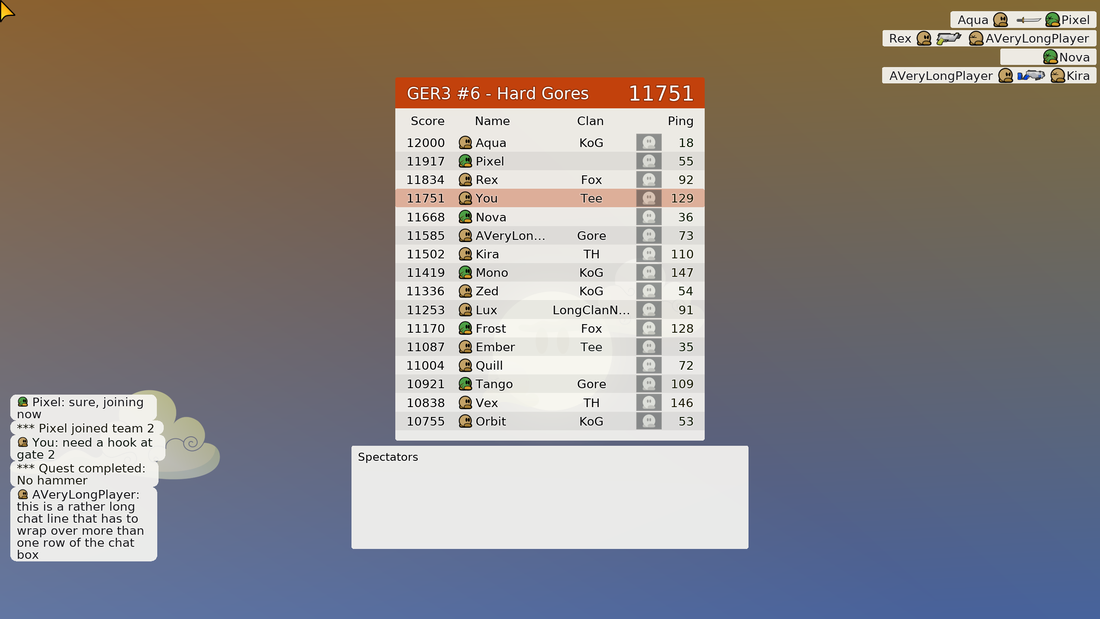
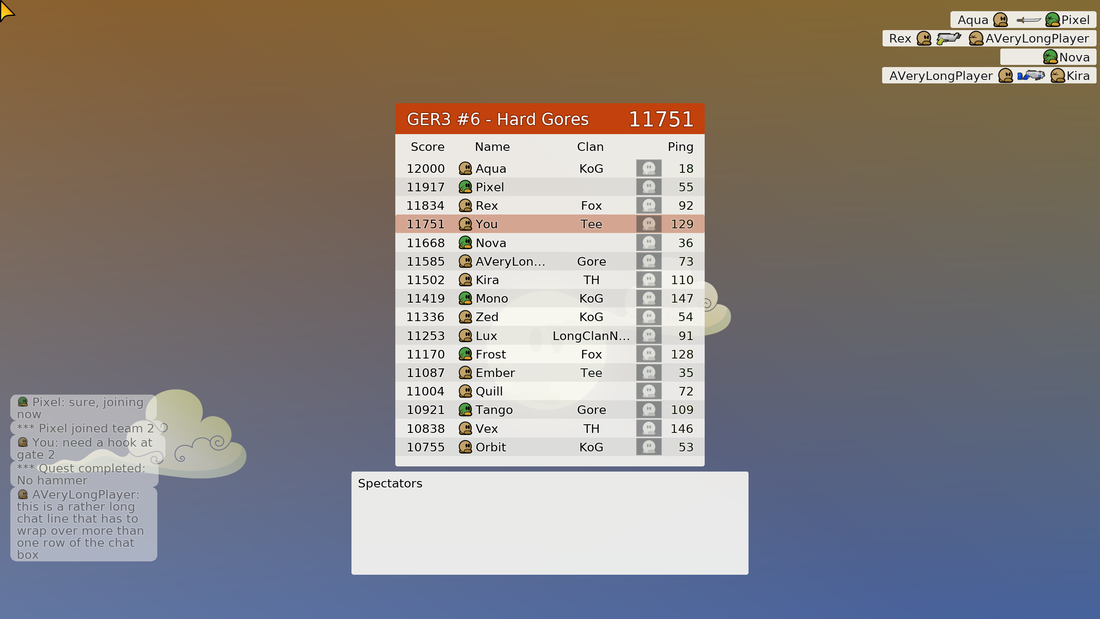
Docs: performance and robustness, merge points, screenshots of the fixed layout

Changed region(s): [[0.3091, 0.1228, 0.68, 0.7981], [0.0, 0.6139, 0.2473, 0.9208], [0.3091, 0.8595, 0.68, 0.9515]]

diff --git a/docs/CLIENT-STYLE.md b/docs/CLIENT-STYLE.md
@@ -197,7 +197,7 @@ screen instead, and what does not fit is counted ("+50 players not shown"), neve
 | --- | --- | --- | --- |
 | 16 | 1 column | 1 column | `ScoreboardNeverShrinksTheTextToFit` |
 | 64 | 3 columns, all shown | 3 columns, all shown | `SixtyFourPlayersFitOnEveryCommonScreen` |
-| 128 | 3 columns, 78 shown, "+50 not shown" | 4 columns, 104 shown | `A128PlayerServerOnA43ScreenIsCountedNotShrunk` |
+| 128 | 3 columns, 81 shown, "+47 not shown" | 3 columns, 81 shown (the chat strip takes the room of the fourth) | `A128PlayerServerOnA43ScreenIsCountedNotShrunk` |
 
 The tests run the plan on six screens (4:3, 16:9, 16:10, ultrawide, a narrow and a tall window), and check that the rows fit the
 height, that a column keeps its minimum width, and that the plan never shows fewer players when there are more. Team games
@@ -240,9 +240,14 @@ Screenshots of the real components (fixtures, vanilla look first):
 | Design C dark, 64 players, 16:9 | Design C light, 64 players, 4:3 |
 | ![](screenshots/hud-real-64-t1-16x9.png) | ![](screenshots/hud-real-64-t2-4x3.png) |
 
-128 players on 4:3, never smaller than 12 units, with the count of the players that are not shown:
+128 players on 16:9, never smaller than 12 units, with the count of the players that are not shown:
 
-![](screenshots/hud-real-128-t1-4x3.png)
+![](screenshots/hud-real-128-t1-16x9.png)
+
+The chat keeps its strip on the left while the scoreboard is open on a wide screen (the scoreboard moves right of it), the
+kill feed shows the newest rows that fit above the scoreboard, and the spectators panel is left out where there is no room
+for it (see the plan functions in section 11). On a 4:3 screen there is no room beside the scoreboard: the chat waits until it
+closes.
 
 The tooltip frame and the notice toast were not captured from the real components in this series (the tooltip needs a hovered
 control; the toast was shown with a test hook earlier).
@@ -251,7 +256,100 @@ control; the toast was shown with a test hook earlier).
 `scripts/kog/check_hud_label_lengths.py` reads `data/languages` and lists headline labels wider than their column at 12 units: 5
 of them (Bosnian, Hungarian and Serbian "Score", Kyrgyz "Ping"), all right-aligned so they grow into the margin.
 
-## 10. What is not done
+## 11. Performance and robustness
+
+### What was measured, and what it led to
+
+The first version of the HUD cost about 0.6 ms more per frame than the classic scoreboard with 64 players (median 2407 against
+1764 us). I measured where it goes before changing anything:
+
+| Measurement (64 players, one scoreboard) | Classic | Design C |
+| --- | --- | --- |
+| CPU time inside `CScoreboard::OnRender` (a timer, 600 frames) | 41 to 45 us | 47 to 48 us |
+| Median frame, zebra rows drawn one by one | 1891 us | 2056 us |
+| Median frame, zebra rows switched off | | 1694 us |
+| Median frame, tees switched off | 1106 us | 1123 us |
+
+So the scoreboard code itself is cheap (the rows were already cached text containers; the new work is a few comparisons), the
+tees are 800 us of both looks, and the extra cost was **32 draw calls for the zebra rows**, about 11 us each in the graphics
+backend. The zebra rows are now collected into one array and drawn with one call (`QuadsDrawTL` of the whole column, before the
+rows so they stay behind): 32 draw calls became 1 per column. Per-player work is unchanged; caching of text containers was
+already in place (`CCachedText`, the kill feed's containers) and the layout is not recomputed per row.
+
+`scripts/kog/bench_hud.py` repeats the measurement (the client's `benchmark_quit`, 1280x720, vsync off, no frame limit, median of
+several runs of the median, p95 and p99 in microseconds). Results on macOS, Apple M2 Pro, Release; dark and light are the
+KoG themes:
+
+| Scene | Classic median / p95 / p99 | Dark | Light |
+| --- | --- | --- | --- |
+| Start page (5 runs) | 399 / 1911 / 2916 | 406 / 1859 / 3002 | 409 / 1962 / 2547 |
+| Scoreboard, 16 players (3 runs) | 903 / 3360 / 4086 | 878 / 2961 / 3734 | 878 / 4410 / 11655 |
+| Scoreboard, 64 players (5 runs) | 1808 / 3901 / 4446 | 1657 / 3944 / 5532 | 1963 / 4628 / 7248 |
+| Scoreboard, 128 players (3 runs) | 3901 / 14484 / 31338 | 2242 / 4362 / 5267 | 2101 / 4808 / 6931 |
+| Chat and kill feed, 64 players (5 runs) | 1842 / 3555 / 5313 | 1815 / 3313 / 5414 | 1846 / 3873 / 4677 |
+
+The KoG look is at the classic frame time in every scene, within the noise of the runs (5 to 10 percent), and far below it
+with 128 players, where the classic scoreboard draws 128 rows at 5 units. The 64 player light scoreboard is 9 percent above
+classic in this run and I did not find out why; the dark one is 8 percent below. The p99 numbers are spikes of single frames
+and move a lot from run to run.
+
+**Allocations.** A counting interposer (`scripts/kog/dev/allocs_per_frame.py`) gives, in steady state, 1079 allocations per
+frame for the empty scene, 6352 with the classic 64 player scoreboard and 6406 with design C. The 5300 allocations per frame of
+the scoreboard are the engine's (the tee renderer and the graphics command buffer allocate a function object per command) and
+are the same in both looks; what the HUD code adds is within the noise (+54 in 6400). Zero allocations per frame in steady
+state is not reachable without changing the engine; the HUD code does not allocate per frame (its zebra array is on the stack,
+the plans are plain structs).
+
+**Layout caching.** The plan of the scoreboard is a pure function of three numbers and costs a few integer operations; it is
+computed once per frame (not per row) and I did not cache it across frames, because a cache would need an invalidation
+rule that costs more than the computation.
+
+### Reliability
+
+- **No work for hidden things.** The scoreboard code runs only while it is open; the kill feed counts and skips rows it will
+  not draw; the HUD functions return their classic value at once when the theme is Classic.
+- **Pure, bounded layout.** `PlanScoreboard`, `PlanSpectatorsHeight` and `PlanKillFeedRows` take numbers and return numbers.
+  Inputs are clamped before any conversion to an integer (a screen of no size, one that is not a number, infinite or
+  gigantic; a player count below 0 or above 100000), so there is no undefined behaviour in a float-to-int conversion.
+- **Tests over invariants** (`src/test/kog_hud_test.cpp`): a property test of 20000 random screens (from 1 unit to 8K, every
+  aspect ratio from 0.2 to 8, UI scale 50 to 200 percent) with 0 to 512 players checks that every number is finite, the panel is
+  inside the screen, the shown count is at most the player count, `m_Truncated` is exactly "not all shown", the minimum text
+  size and row height hold wherever the screen is large enough to keep them, the chat strip is free on wide screens and the chat
+  waits on others, the spectators panel stays on the screen or is left out, the plan is monotonic and deterministic, and
+  inputs that are not screens give a valid plan. Also: the old settings (no value, a value that is not a theme) fall back to
+  Classic.
+- **Sanitizers.** The test runner built with `-fsanitize=address,undefined` (all 406 tests) and the client built the same way,
+  run in 37 scenes (start page in three themes, the server browser, every settings page in the dark and three in the light
+  theme, the HUD fixtures of 1, 16, 64 and 128 players in three themes, chat and kill feed alone, toasts, the quit popup) for
+  6 seconds each, report nothing.
+- **Names, text, glyphs.** Names and clans are cut by the engine's existing ellipsis handling at any length; scripts and
+  combining characters are laid out by the text renderer, which this code only asks for widths; a missing glyph is drawn by the
+  renderer's fallback.
+- **Fallbacks.** An old config has no `cl_kog_theme` (default dark) and a damaged value is Classic (`ThemeFromSetting`).
+  The text colour scopes restore what they replaced when they end.
+- **Static analysis.** `clang-format` (version 23 here, the CI uses 20) with the repo's file: the new files are formatted.
+  `cppcheck` on the new files: no finding that is a defect (it flagged one uninitialised member of the toast, fixed, and a
+  shadowed name, fixed). `clang-tidy` was not run (no compile database for this build).
+
+### Upstream merge points
+
+The HUD touches these shared files; each change is small and guarded by the theme, so an upstream merge conflicts in at most
+these places:
+
+| File | Lines | What |
+| --- | --- | --- |
+| `engine/textrender.h` | 14 | `DefaultTextColor()` returns a member |
+| `game/client/components/scoreboard.cpp` | about 90 | measure, panel colours, zebra, header, columns, spectators |
+| `game/client/components/infomessages.cpp` and `.h` | about 90 | row height, pill, width helpers, row limit |
+| `game/client/components/chat.cpp` and `.h` | 9 | background colour, font floor, scoreboard wait |
+| `game/client/components/tooltips.cpp` | 4 | frame colour |
+| `game/client/components/menus.cpp`, `.h`, `menus_settings_graphics.cpp` | about 40 | theme colours, scope, the theme buttons |
+| `game/client/ui.cpp`, `ui_listbox.cpp` | about 28 | neutral layers and handles |
+| `game/client/gameclient.cpp`, `.h` | 3 | the toast component |
+
+Everything else is in `kog_*` files and `components/kog/`.
+
+## 12. What is not done
 
 Built since the first version of this page: the settings, popup and list colours follow the tokens through the shared helpers
 (screenshots below), the toast for notices (`CKogNotices`, tokens only), the window and exe icons.
